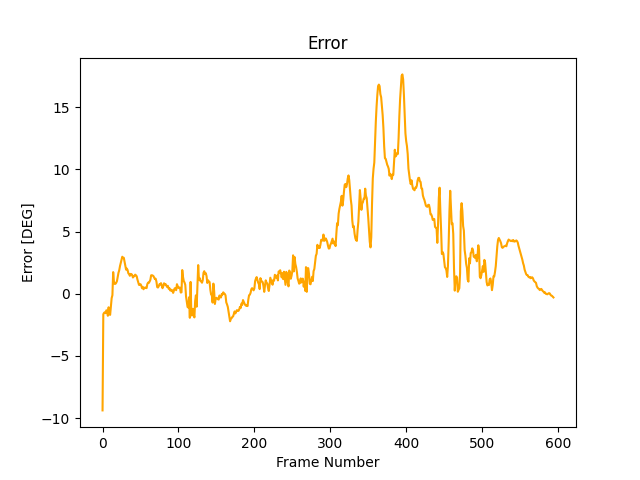
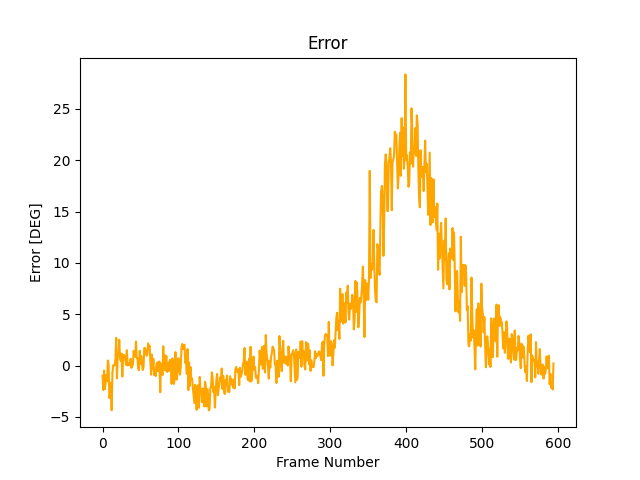
added uncertainty network and data reducer

diff --git a/trailer_pose_network/test_wUncertainty.py b/trailer_pose_network/test_wUncertainty.py
@@ -17,7 +17,8 @@ import torchvision.transforms.functional as TF
 import math
 from torch import optim
 
-from models.mango_net import mango_net
+from models.mango_net_wUncertainty import mango_net
+
 
 device = torch.device('cuda' if torch.cuda.is_available() else 'cpu')
 
@@ -33,7 +34,7 @@ model_params={
 model = mango_net(model_params)
 
 
-state_dict = torch.load("weights/mango_net3.pth")
+state_dict = torch.load("weights/mango_net3_wSTD.pth")
 model.load_state_dict(state_dict)
 model.eval()
 model = model.to(device)
@@ -53,8 +54,8 @@ tf=transforms.Compose([
 def get_pitch(input_img):
     input_img = tf(input_img)
     image_ten = input_img.to(device)
-    pred_mu = model(image_ten)
-    return pred_mu.item()
+    pred_mu, pred_std = model(image_ten)
+    return pred_mu.item(), pred_std.item()
 
 
 
@@ -97,19 +98,20 @@ while(cap.isOpened()):
    
         #Concatenate the Two Images
         image = cv2.hconcat([frame, frame2])
-        pred_mu = get_pitch(image)
+        pred_mu, pred_sig = get_pitch(image)
+        print(pred_sig*180/3.14159)
 
         image = cv2.resize(image, (1000,421))
 
         pred_array.append(pred_mu*180/3.14159)
-        # pred_sig_array.append(pred_sig)
+        pred_sig_array.append(pred_sig*3*180/3.14159)
         image = cv2.putText(image, str(round(truth*180/3.14159,5)), (350,200), cv2.FONT_HERSHEY_SIMPLEX ,  2, (255,0,0), 2, cv2.LINE_AA) 
         image = cv2.putText(image, str(round(pred_mu*180/3.14159,5)), (350,300), cv2.FONT_HERSHEY_SIMPLEX ,  2, (0,0,255), 2, cv2.LINE_AA) 
         cv2.imshow("Predictions", image)
         cv2.waitKey(3)
         print("---")
-        print(truth*180/3.1415926)
-        print(pred_mu*180/3.1415926)
+        # print(truth*180/3.1415926)
+        # print(pred_mu*180/3.1415926)
         # print(pred_sig)
 
     # Press Q on keyboard to exit 
@@ -133,7 +135,7 @@ plt.figure(200)
 
 plt.plot(i_array, pred_array, 'b', label = "Estimated")
 plt.plot(i_array, truth_array, 'r', label="True Pitch")
-# plt.fill_between(i_array, np.array(pred_array)-np.array(pred_sig_array), np.array(pred_array)+np.array(pred_sig_array),color='grey',alpha=0.6, label="Uncertainty Bounds")
+plt.fill_between(i_array, np.array(pred_array)-np.array(pred_sig_array), np.array(pred_array)+np.array(pred_sig_array),color='grey',alpha=0.6, label="Uncertainty Bounds")
 
 plt.xlabel("Frame Number")  # add X-axis label
 plt.ylabel("Pitch [DEG]")  # add Y-axis label

diff --git a/trailer_pose_network/models/mango_net_wUncertainty.py b/trailer_pose_network/models/mango_net_wUncertainty.py
@@ -30,8 +30,6 @@ def findConv2dOutShape(hin,win,conv,pool=2):
     return int(hout),int(wout)
 
 
-
-
 # Neural Network
 class mango_net(nn.Module):
     # Network Initialisation
@@ -46,20 +44,18 @@ class mango_net(nn.Module):
         
 
 
+        # self.num_flatten = 184320
         
         # Convolution Layers
         self.conv1 = nn.Conv2d(channels, init_f, kernel_size=3)      #Three channel, 16 filters, 3x3 kernel 
         h,w=findConv2dOutShape(height,width,self.conv1)
-        self.conv1_bn = nn.BatchNorm2d(init_f)
         self.conv2 = nn.Conv2d(init_f, 2*init_f, kernel_size=3)
         h,w=findConv2dOutShape(h,w,self.conv2)
-        self.conv2_bn = nn.BatchNorm2d(init_f*2)
         self.conv3 = nn.Conv2d(2*init_f, 4*init_f, kernel_size=3)
         h,w=findConv2dOutShape(h,w,self.conv3)
-        self.conv3_bn = nn.BatchNorm2d(init_f*4)
         self.conv4 = nn.Conv2d(4*init_f, 8*init_f, kernel_size=3)
         h,w=findConv2dOutShape(h,w,self.conv4)
-        self.conv4_bn = nn.BatchNorm2d(init_f*8)
+        
         # compute the flatten size
         self.num_flatten=h*w*8*init_f #Compute the number of nodes in output layer 
         self.fc1 = nn.Linear(self.num_flatten, num_fc1)
@@ -72,16 +68,12 @@ class mango_net(nn.Module):
         
         # Convolution & Pool Layers
         X = F.relu(self.conv1(X)); 
-        # X = self.conv1_bn(X)
         X = F.max_pool2d(X, 2, 2)
         X = F.relu(self.conv2(X))
-        # X = self.conv2_bn(X)
         X = F.max_pool2d(X, 2, 2)
         X = F.relu(self.conv3(X))
-        # X = self.conv3_bn(X)
         X = F.max_pool2d(X, 2, 2)
         X = F.relu(self.conv4(X))
-        # X = self.conv4_bn(X)
         X = F.max_pool2d(X, 2, 2)
 
         X = X.view(-1, self.num_flatten)
@@ -89,42 +81,6 @@ class mango_net(nn.Module):
         X = F.relu(self.fc1(X))
         X=F.dropout(X, self.dropout_rate)
         mu= self.fc_mu(X)
-        # sig = self.fc_sig(X)
-        # sig = F.softplus(sig)+1e-6
-        return mu
-
-
-
-
-
-
-
-
-
-
-
-
-
-
-
-
-
-
-
-
-
-
-
-
-
-
-
-
-
-
-
-
-
-
-
-
+        sig = self.fc_sig(X)
+        sig = F.softplus(sig)+1e-6
+        return mu, sig 

diff --git a/utils/reducer.py b/utils/reducer.py
@@ -1,0 +1,55 @@
+import os
+import pandas as pd # data processing, CSV file I/O (e.g. pd.read_csv)
+import csv
+
+
+
+input_path = '/home/gavlab/Trailer_Pitch_Estimate/TrainingData/RoadRunner/TrainingData/Combined/combined_one_instance.csv'
+output_path = '/home/gavlab/Trailer_Pitch_Estimate/TrainingData/RoadRunner/TrainingData/Combined/combined_one_instance_reduced.csv'
+counter = 0
+
+df = pd.read_csv(input_path, index_col=0)
+
+print(df.head())
+column_names = df.columns
+
+n = df[column_names[15]].value_counts().min()
+
+df = df.groupby(column_names[15]).head(300)
+print(column_names[15])
+
+print(len(df.index))
+
+df.to_csv(output_path)
+
+
+# with open(output_path, 'w') as file:
+#     wr = csv.writer(file, quoting = csv.QUOTE_ALL)
+#     for folder in sub_directories_path:
+#         subfolders = os.listdir(parent_directory_path+"/"+folder)
+#         for subfolder in subfolders:
+#             path = parent_directory_path+"/"+folder+"/"+subfolder+"/"
+#             print(path)
+#             csv_file = path+subfolder+"_training.csv"
+
+#             with open(csv_file, "r") as f:
+#                 reader = csv.reader(f)
+
+#                 for i, line in enumerate(reader):
+#                     left_image =  parent_directory_path+"/"+folder+"/"+subfolder+"/images/LRMC/"+line[0]+".jpg"
+#                     right_image = parent_directory_path+"/"+folder+"/"+subfolder+"/images/RRMC/"+line[1]+".jpg"
+#                     line[0] = left_image
+#                     line[1] = right_image
+                    
+#                     wr.writerow(line)
+                    
+
+# file.close()
+               
+#         # self.df = pd.read_csv("/"+path+self.csv_file)
+#         # self.df = shuffle(self.df)
+#         # self.left_image_path ="/"+path+"/images/LRMC/"
+#         # self.right_image_path ="/"+path+"/images/RRMC/"
+
+        # self.column_names = self.df.columns
+

diff --git a/trailer_pose_network/trainer_wUncertainty.py b/trailer_pose_network/trainer_wUncertainty.py
@@ -18,7 +18,7 @@ import torch.nn.functional as F
 
 import numpy as np
 
-class Trainer():
+class TrainerwStd():
     '''
     Trainer utility class
 
@@ -72,8 +72,8 @@ class Trainer():
                 y_val = val_pair[1].to(device=self.device, dtype=torch.float32)
 
                 # call model, compute estimates
-                est_train = self.model(x_train)
-                est_val = self.model(x_val)
+                est_train, _= self.model(x_train)
+                est_val, _ = self.model(x_val)
                 # _, preds_train = est_train.max(1)
                 # _, preds_val = est_val.max(1)
                 
@@ -90,6 +90,12 @@ class Trainer():
 
         return err_train, err_val
     
+    
+    def NLLloss(self, y, mean, var):
+        """ Negative log-likelihood loss function. """
+        return torch.sum(torch.log(var) + torch.pow(y - mean, 2)/var) 
+
+
     def train(self, loss_func=None, params=None, epochs=5):
         '''
         Train function to call.
@@ -122,13 +128,15 @@ class Trainer():
                
                 self.model.train()
                 # call model to estimate
-                est = self.model(x)
+                est, std = self.model(x)
                 est = est.squeeze()
+                std = std.squeeze()
                 # compute loss
                 # loss = loss_func(**params)
                 self.optimizer.zero_grad()
-                loss_fun = nn.MSELoss()
-                loss = loss_fun(est, y)
+                # loss_fun = nn.MSELoss()
+                
+                loss = self.NLLloss(y, est, std)
                 loss = self.loss_weight*loss
                 if initial_loss is None:
                     initial_loss = loss.item()

diff --git a/trailer_pose_network/trainer_class_test_wUncertainty.py b/trailer_pose_network/trainer_class_test_wUncertainty.py
@@ -19,11 +19,13 @@ import math
 
 from data_setup import TrailerData
 from custom_transforms import *
-from trainer import Trainer
+from trainer_wUncertainty import TrainerwStd
 
 
 
-from models.mango_net import mango_net
+# from models.mango_net import mango_net
+from models.mango_net_wUncertainty import mango_net
+
 #Procedure 1 Data 
 # TRAIN_CSV = "/home/gavlab/Trailer_Pitch_Estimate/TrainingData/procedure1/training/train.csv"
 # TEST_CSV = "/home/gavlab/Trailer_Pitch_Estimate/TrainingData/procedure1/training/test.csv"
@@ -87,9 +89,9 @@ device = torch.device('cuda' if torch.cuda.is_available() else 'cpu')
 print("Device in use: ", device)
 
 model = model.to(device)
-opt = torch.optim.Adam(model.parameters(), lr=3e-5, weight_decay= 1e-4)
+opt = torch.optim.Adam(model.parameters(), lr=3e-7, weight_decay= 1e-3)
 
-network_trainer = Trainer(model=model,
+network_trainer = TrainerwStd(model=model,
                           optimizer=opt,
                           loader_train=loader_train,
                           loader_val=loader_val,
@@ -98,9 +100,9 @@ network_trainer = Trainer(model=model,
                           verbose={"cond":True,"print_every":25})
 
 
-loss_history, err_train_history, err_val_history, model_weights= network_trainer.train(epochs=3)
+loss_history, err_train_history, err_val_history, model_weights= network_trainer.train(epochs=10)
 
-torch.save(model_weights, "mango_net3.pth")
+torch.save(model_weights, "mango_net_wSTD2.pth")
 # plot loss
 plt.subplot(2,1,1)
 plt.plot(loss_history, '-')
